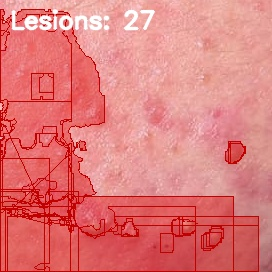
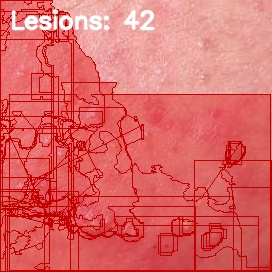
Add demo screenshots

diff --git a/README.md b/README.md
@@ -170,3 +170,7 @@ This system is built for **educational and research purposes only**. It does not
 | Deep learning backend | PyTorch 2.0+ |
 | Image processing | OpenCV |
 | UI | Streamlit |
+
+## Demo
+
+![Demo](docs/screenshots/demo.png)
